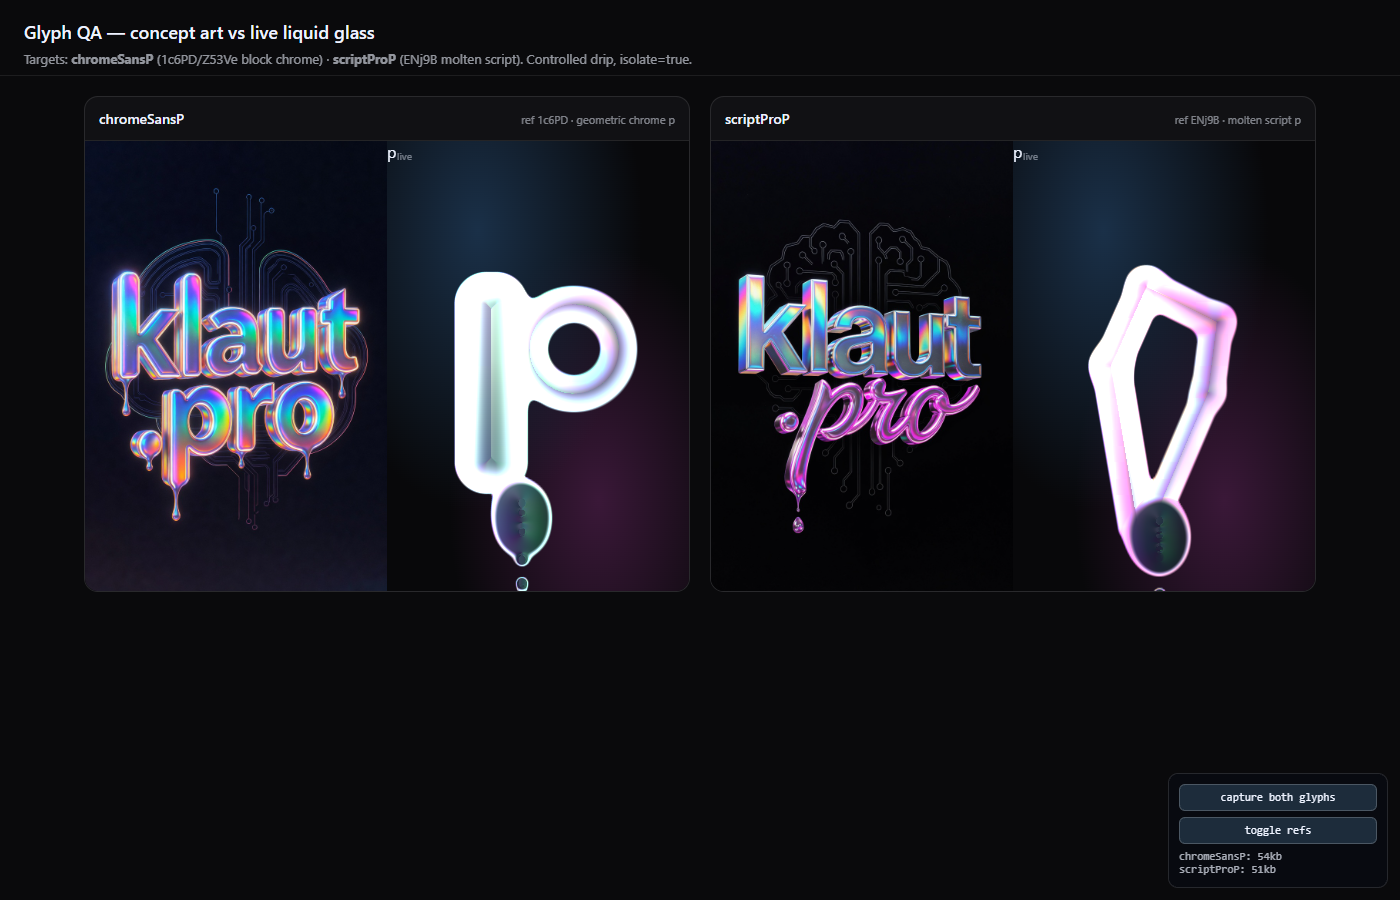
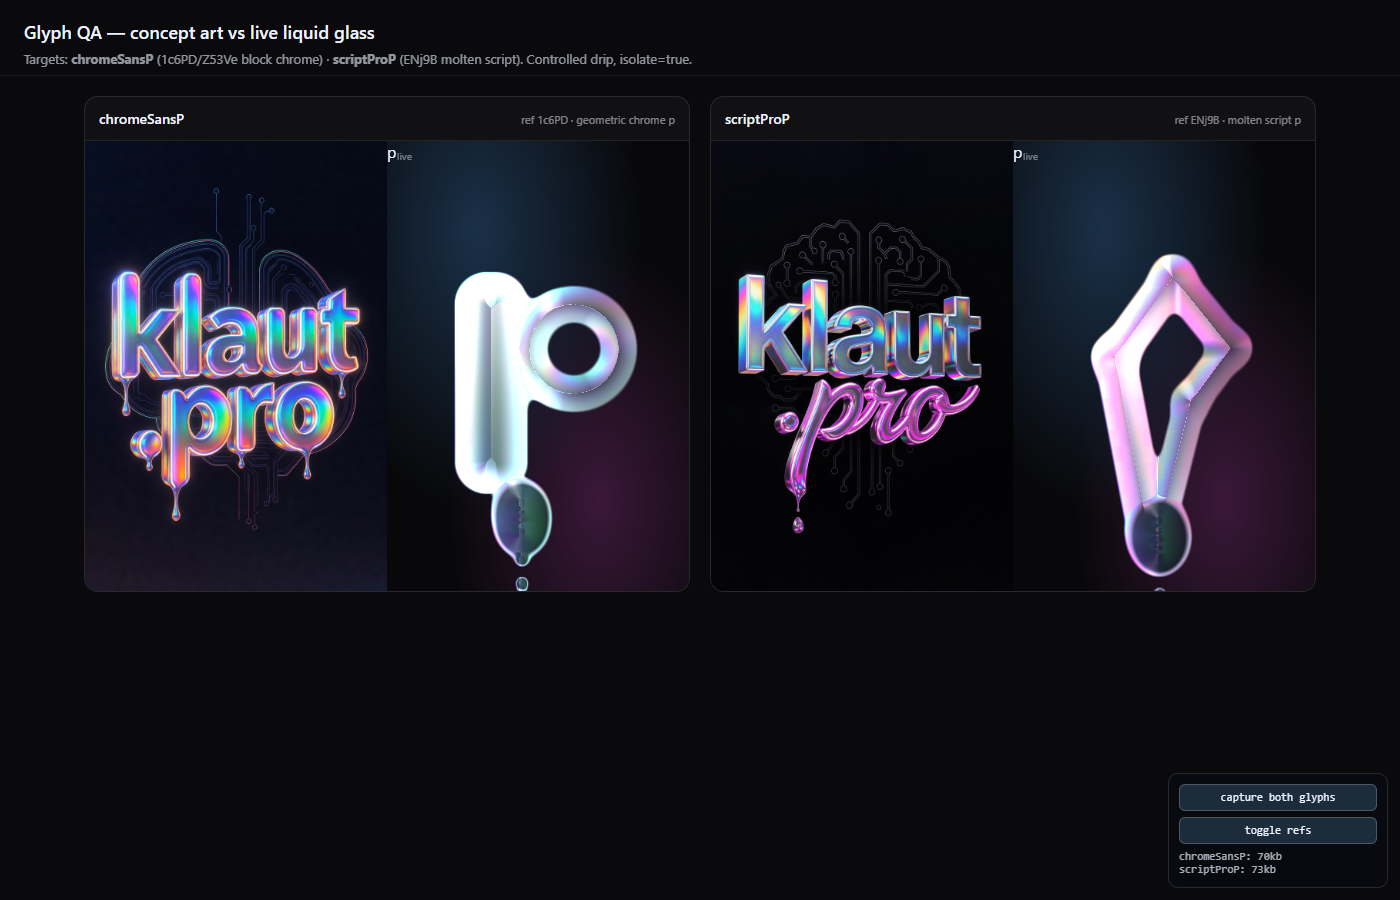
feat(glyph-qa): env reflection, iridescent drip lift, fluid script SDF

Changed region(s): [[0.7679, 0.28, 0.9214, 0.6533], [0.3379, 0.3111, 0.4607, 0.6222]]

diff --git a/src/shade/shaders.ts b/src/shade/shaders.ts
@@ -81,18 +81,18 @@ float glyphChromeSansP(vec2 p) {
   return body;
 }
 
-/** Thin molten script p (ENj9B ".pro" descender). */
+/** Molten script p (ENj9B ".pro" — fluid loop + descender). */
 float glyphScriptProP(vec2 p) {
-  vec2 q = p * 1.02;
-  float s1 = sdCapsule(q, vec2(-0.06, -0.36), vec2(-0.12, 0.0), 0.044);
-  float s2 = sdCapsule(q, vec2(-0.12, 0.0), vec2(-0.04, 0.18), 0.042);
-  float s3 = sdCapsule(q, vec2(-0.04, 0.18), vec2(0.12, 0.10), 0.04);
-  float s4 = sdCapsule(q, vec2(0.12, 0.10), vec2(0.10, -0.06), 0.038);
-  float s5 = sdCapsule(q, vec2(0.10, -0.06), vec2(-0.02, -0.34), 0.034);
-  float g = softMin(s1, s2, 0.028);
-  g = softMin(g, s3, 0.026);
-  g = softMin(g, s4, 0.024);
-  g = softMin(g, s5, 0.022);
+  vec2 q = p * 1.01;
+  float up = sdCapsule(q, vec2(-0.04, -0.35), vec2(-0.11, 0.02), 0.046);
+  float arch = sdCapsule(q, vec2(-0.11, 0.02), vec2(0.02, 0.20), 0.044);
+  float loop = sdCapsule(q, vec2(0.02, 0.20), vec2(0.15, 0.04), 0.042);
+  float join = sdCapsule(q, vec2(0.15, 0.04), vec2(0.06, -0.08), 0.04);
+  float desc = sdCapsule(q, vec2(0.06, -0.08), vec2(-0.01, -0.36), 0.036);
+  float g = softMin(up, arch, 0.032);
+  g = softMin(g, loop, 0.03);
+  g = softMin(g, join, 0.028);
+  g = softMin(g, desc, 0.026);
   return g;
 }
 
@@ -272,7 +272,11 @@ void main() {
   vec3 color = mix(refracted, reflectTint, fres * chromeMix * u_glass * mix(1.15, 0.18, interior));
   if (u_fieldMode > 0.5) {
     color += reflectTint * edge * 0.55 * u_lightIntensity * u_specular;
-    color = mix(color * 0.68, color, edge); // darker chrome body, bright rims
+    color = mix(color * 0.78, color, edge); // darker chrome body, bright rims
+    // Environment reflection (chrome reads backdrop softbox)
+    vec2 envUv = clamp(uv + N.xy * refrStr * 2.4, 0.0, 1.0);
+    vec3 env = sampleBlur(envUv, blurAmt * 0.4);
+    color = mix(color, env, mix(0.22, 0.62, 1.0 - interior) * 0.9);
     // Concept-art vertical softbox stripe (1c6PD / Z53Ve)
     float bar = smoothstep(0.32, 0.0, abs(p.x + 0.16)) * smoothstep(-0.55, 0.42, p.y);
     color += vec3(1.0) * bar * 0.72 * u_lightIntensity * mix(0.35, 1.0, edge);
@@ -312,6 +316,11 @@ void main() {
     if (u_fieldMode > 0.5) fireAmt *= mix(0.85, 1.35, edge);
     vec3 fire = mix(vec3(0.35, 1.15, 1.25), vec3(1.2, 0.45, 0.95), 0.5 + 0.5 * sin(ndotl * 6.0));
     color += fire * fireAmt * (0.2 + spec * 0.9);
+    if (u_fieldMode > 0.5 && p.y < -0.08) {
+      float dripLift = smoothstep(-0.06, -0.42, p.y) * edge;
+      color += refracted * dripLift * 0.45;
+      color += fire * dripLift * 0.22;
+    }
   }
 
   if (u_fieldMode < 0.5) {

diff --git a/src/field/DripSim.ts b/src/field/DripSim.ts
@@ -343,8 +343,8 @@ export class DripSim {
         blobs.push({
           x: em.x + wobble * 0.15,
           y: dropY,
-          r: dropR,
-          w: emDrip * 0.8,
+          r: dropR * 1.08,
+          w: emDrip * 1.0,
         });
         continue;
       }